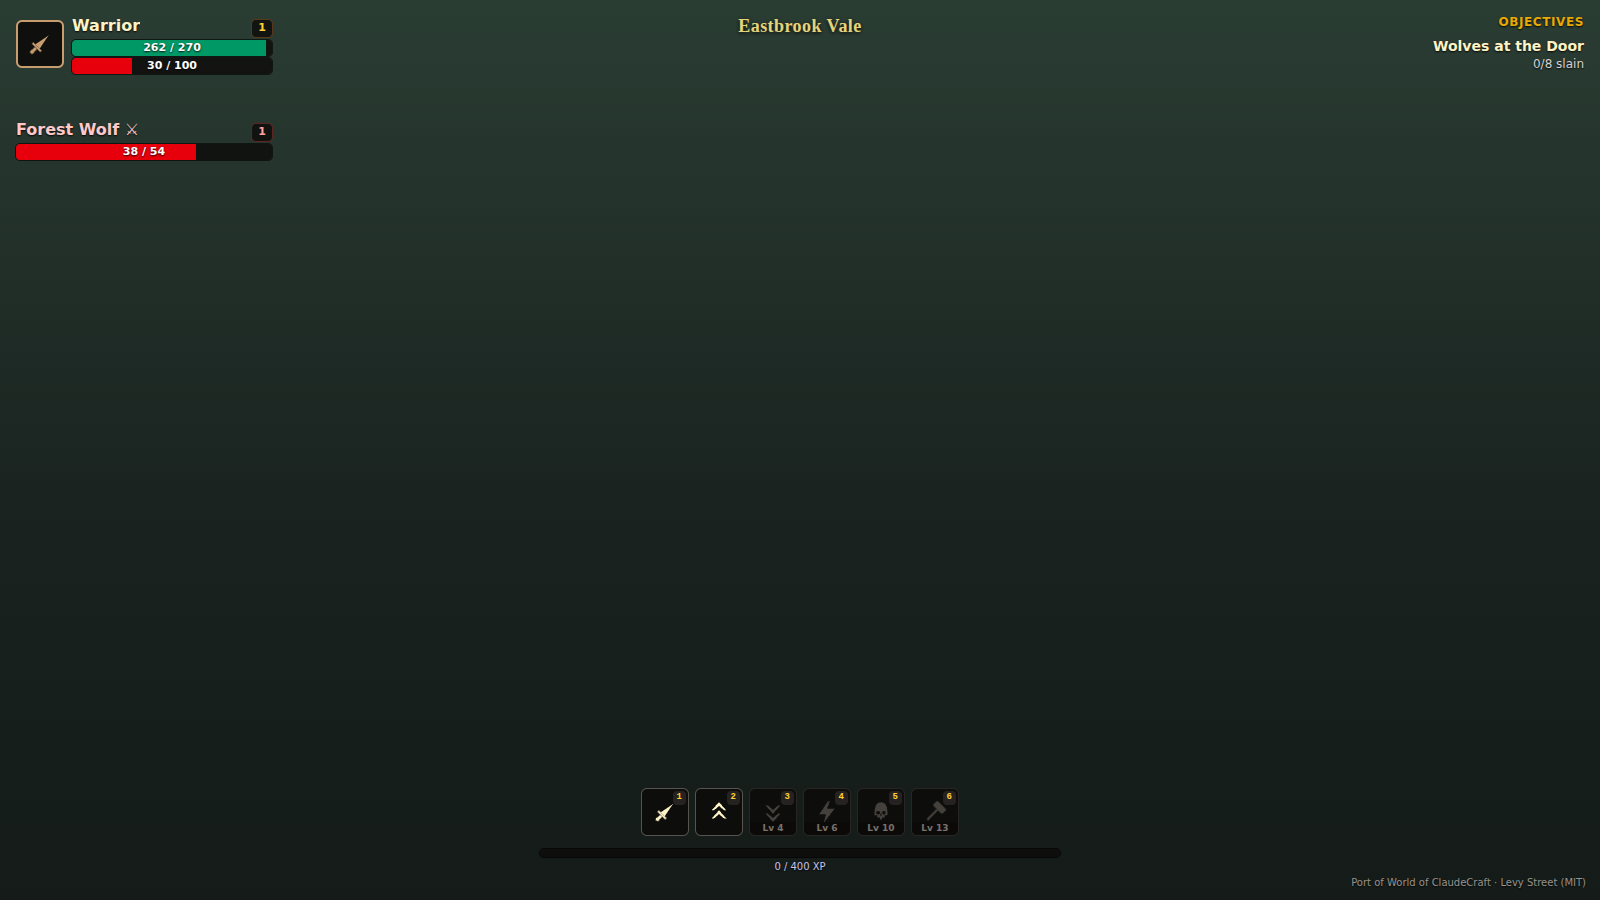
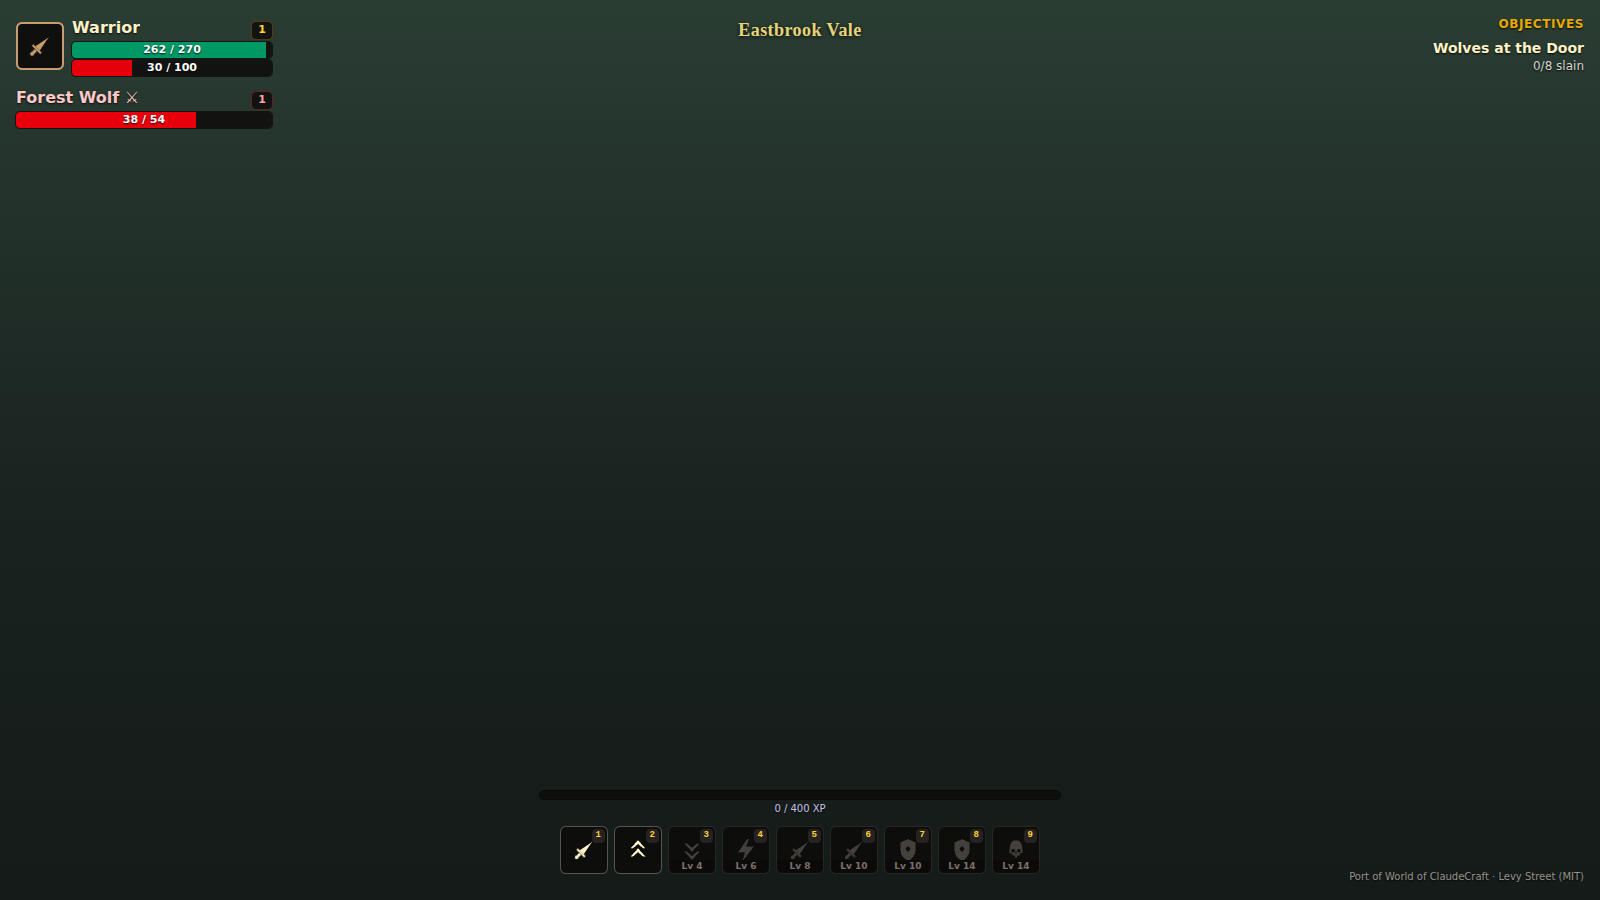
Batch 2 ship: strict quest gating in tests, refreshed screens
Claude-Session: https://claude.ai/code/session_01CAc9dbnE2dLYCzgx1oXS2Z

diff --git a/Games/claudecraft/src/game/gameplay.test.ts b/Games/claudecraft/src/game/gameplay.test.ts
@@ -3,6 +3,7 @@ import { createGameContext, type GameContext } from "@jgengine/core/runtime/game
 
 import { game } from "../game.config";
 import { loop } from "../loop";
+import { classById } from "./classes/catalog";
 import { isMobInstance, mobCount, mobRuntimeOf } from "./ai/mobs";
 import { content } from "./content";
 import { CLASS_ENTITY_ID, COPPER } from "./model";
@@ -64,9 +65,20 @@ describe("claudecraft gameplay (headless)", () => {
     expect(ctx.game.commands.run("class.select", { classId: "mage" }).status).toBe("rejected");
   });
 
+  test("action bar defaults from the kit and spellbook reassigns slots", () => {
+    const bar = ctx.game.store.get(`bar:${USER}`) as string[];
+    expect(bar.length).toBeGreaterThanOrEqual(9);
+    expect(bar.filter((id) => id !== "").length).toBe(9);
+    const warrior = classById("warrior");
+    const starter = warrior.abilities.find((ability) => ability.levelReq <= 1);
+    expect(starter).toBeDefined();
+    ctx.game.commands.run("spellbook.assign", { abilityId: starter?.id ?? "", slot: 8 });
+    const after = ctx.game.store.get(`bar:${USER}`) as string[];
+    expect(after[8]).toBe(starter?.id ?? "");
+  });
+
   test("auto-attack kills a wolf, grants xp, copper, and quest credit", () => {
-    const accept = ctx.game.quest.accept(USER, "wolves_at_the_door");
-    void accept;
+    expect(ctx.game.quest.accept(USER, "q_wolves")).toBeNull();
     const wolfId = firstMobOf(ctx, "forest_wolf");
     const startCopper = ctx.game.economy.balance(USER, COPPER);
     const startXp = ctx.scene.entity.stats.get(USER, "xp")?.current ?? 0;
@@ -87,11 +99,10 @@ describe("claudecraft gameplay (headless)", () => {
     expect(mobRuntimeOf(wolfId)).toBeNull();
     expect(ctx.scene.entity.stats.get(USER, "xp")?.current ?? 0).toBeGreaterThan(startXp - 1);
     expect(ctx.game.economy.balance(USER, COPPER)).toBeGreaterThan(startCopper);
-    const journal = ctx.game.quest.list(USER).find((quest) => quest.questId === "wolves_at_the_door");
-    if (journal !== undefined) {
-      const killObjective = journal.objectives.find((objective) => objective.kind === "kill");
-      expect(killObjective?.progress ?? 0).toBeGreaterThan(0);
-    }
+    const journal = ctx.game.quest.list(USER).find((quest) => quest.questId === "q_wolves");
+    expect(journal).toBeDefined();
+    const killObjective = journal?.objectives.find((objective) => objective.kind === "kill");
+    expect(killObjective?.progress ?? 0).toBeGreaterThan(0);
   });
 
   test("rage built from swings pays for a warrior strike", () => {

diff --git a/Games/claudecraft/src/game/uiScenario.ts b/Games/claudecraft/src/game/uiScenario.ts
@@ -5,7 +5,7 @@ import { isMobInstance } from "./ai/mobs";
 export const uiScenario: UiPreviewScenario = (ctx, playable) => {
   const userId = ctx.player.userId;
   ctx.game.commands.run("class.select", { classId: "warrior" });
-  ctx.game.quest.accept(userId, "wolves_at_the_door");
+  ctx.game.quest.accept(userId, "q_wolves");
   const wolf = ctx.scene.entity.list().find((entity) => entity.name === "forest_wolf" && isMobInstance(entity.id));
   if (wolf !== undefined) {
     ctx.scene.entity.setPose(userId, {